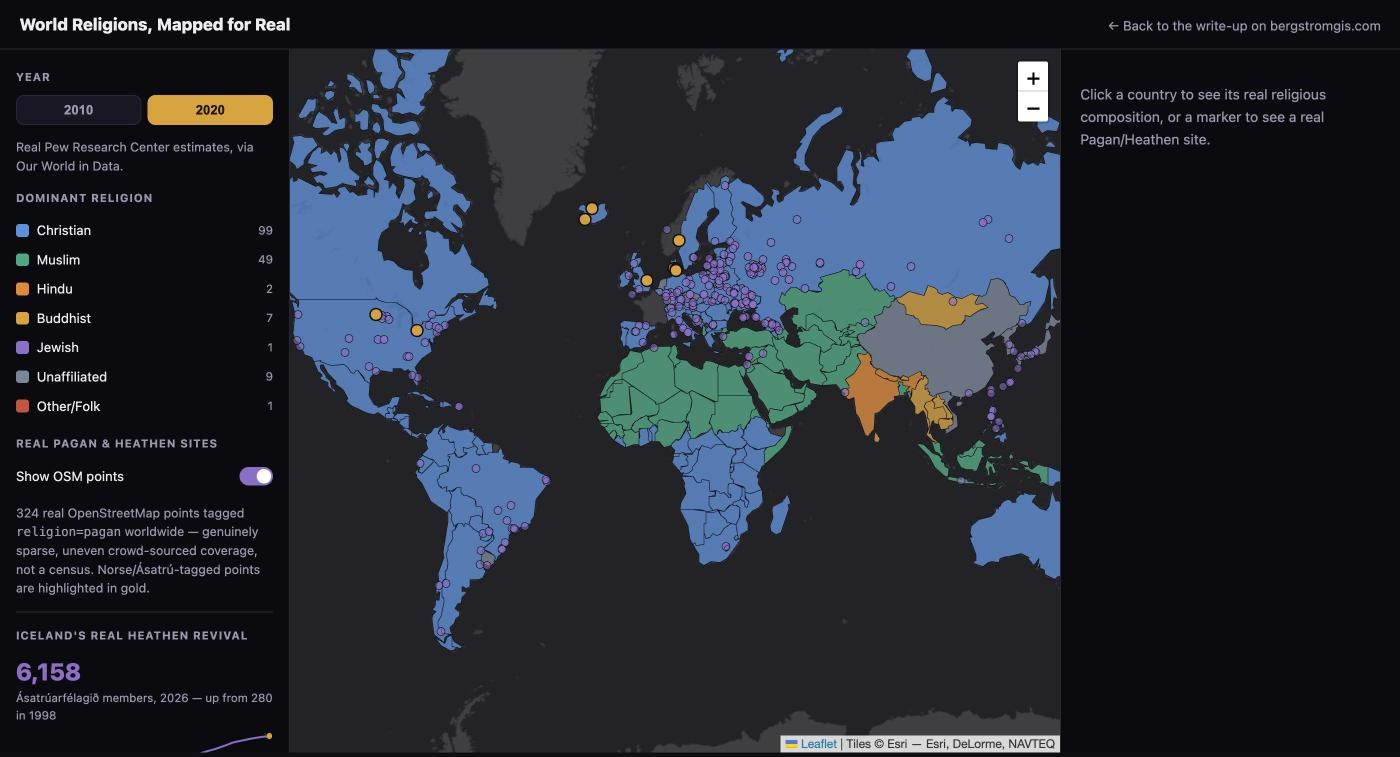
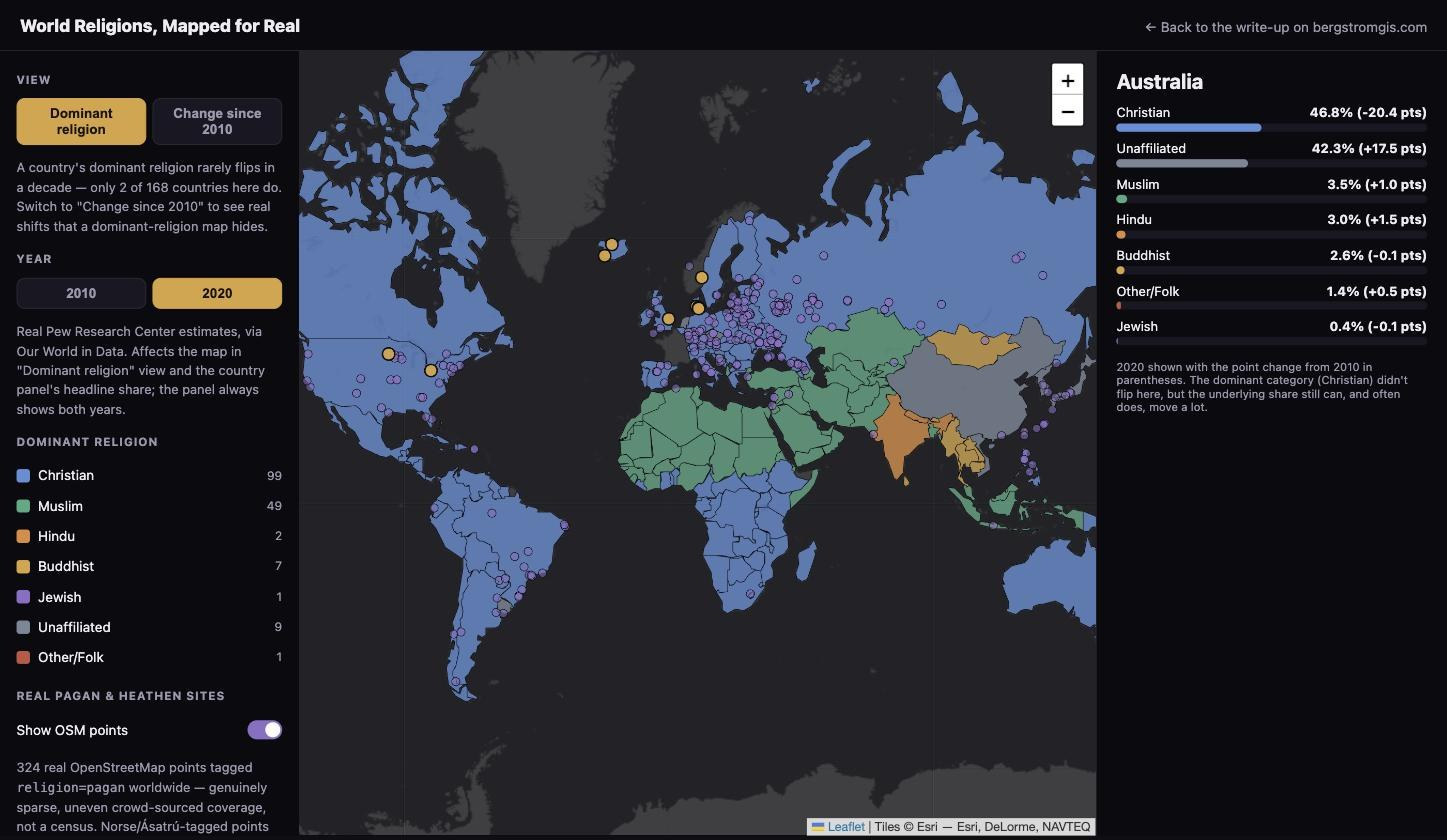
Fix year-toggle bug and add a real change view
The country detail panel was hardcoded to always show 2020 numbers,
so toggling to 2010 and clicking a country never reflected the
selected year. Fixed: the panel now always shows both years side by
side with the real point change. Also added a second map view,
'Change since 2010,' since only 2 of 168 countries actually flip
their dominant religion in a decade -- the categorical map was hiding
real shifts like Australia's Christian share dropping 20 points.

diff --git a/docs/religions/index.html b/docs/religions/index.html
@@ -118,15 +118,29 @@
 
 <div class="layout">
   <nav class="rail" aria-label="Legend and controls">
+    <h2>View</h2>
+    <div class="year-toggle" id="viewToggle">
+      <button data-view="dominant" class="active">Dominant religion</button>
+      <button data-view="change">Change since 2010</button>
+    </div>
+    <p class="hint" id="viewHint">A country's dominant religion rarely flips in a decade &mdash; only 2 of 168 countries here do. Switch to "Change since 2010" to see real shifts that a dominant-religion map hides.</p>
+
     <h2>Year</h2>
     <div class="year-toggle" id="yearToggle">
       <button data-year="2010">2010</button>
       <button data-year="2020" class="active">2020</button>
     </div>
-    <p class="hint">Real Pew Research Center estimates, via Our World in Data.</p>
+    <p class="hint">Real Pew Research Center estimates, via Our World in Data. Affects the map in "Dominant religion" view and the country panel's headline share; the panel always shows both years.</p>
 
-    <h2>Dominant religion</h2>
+    <h2 id="legendHeading">Dominant religion</h2>
     <div id="legendList"></div>
+    <div id="changeLegend" style="display:none">
+      <div class="hint">Point change in "Unaffiliated" share, 2010&rarr;2020. Chosen because it's the clearest, most comparable real signal across almost every country in this dataset.</div>
+      <div style="height:12px; border-radius:6px; margin:0.6rem 0 0.3rem; background:linear-gradient(90deg, #2b2539, #d9a441);"></div>
+      <div style="display:flex; justify-content:space-between; font-size:0.7rem; color:var(--muted);">
+        <span>No change</span><span id="maxChangeLabel">+&hellip; pts</span>
+      </div>
+    </div>
 
     <h2>Real Pagan &amp; Heathen sites</h2>
     <div class="toggle-row">
@@ -223,26 +237,38 @@
   function fmtPct(v) {
     return v == null ? "—" : v.toFixed(1) + "%";
   }
+  function fmtDelta(v) {
+    if (v == null) return "";
+    const sign = v > 0 ? "+" : "";
+    return ` (${sign}${v.toFixed(1)} pts)`;
+  }
+
+  let selectedCountry = null;
 
   function renderCountryDetail(p) {
+    selectedCountry = p;
     const el = document.getElementById("detail");
-    const rows2020 = Object.entries(RELIGIONS).map(([name, info]) => {
-      const v = p[`${info.field}_2020`];
-      return { name, color: info.color, v: v || 0 };
-    }).sort((a, b) => b.v - a.v);
+    const rows = Object.entries(RELIGIONS).map(([name, info]) => {
+      const v10 = p[`${info.field}_2010`];
+      const v20 = p[`${info.field}_2020`];
+      return { name, color: info.color, v10: v10 || 0, v20: v20 || 0 };
+    }).sort((a, b) => b.v20 - a.v20);
 
-    const bars = rows2020.map(r => `
+    const bars = rows.map(r => {
+      const delta = (r.v20 != null && r.v10 != null) ? r.v20 - r.v10 : null;
+      return `
       <div class="bar-row">
-        <div class="bar-label"><span>${r.name}</span><b>${fmtPct(r.v)}</b></div>
-        <div class="bar-track"><div class="bar-fill" style="width:${Math.min(r.v, 100)}%; background:${r.color}"></div></div>
+        <div class="bar-label"><span>${r.name}</span><b>${fmtPct(r.v20)}${fmtDelta(delta)}</b></div>
+        <div class="bar-track"><div class="bar-fill" style="width:${Math.min(r.v20, 100)}%; background:${r.color}"></div></div>
       </div>
-    `).join("");
+    `;
+    }).join("");
 
     const dom2010 = p.dominant_religion_2010;
     const dom2020 = p.dominant_religion_2020;
     const shift = dom2010 && dom2020 && dom2010 !== dom2020
       ? `<div class="year-diff">Dominant religion shifted from ${dom2010} (2010) to ${dom2020} (2020) in this dataset.</div>`
-      : `<div class="year-diff">Dominant religion (${dom2020 || "—"}) unchanged between 2010 and 2020 in this dataset.</div>`;
+      : `<div class="year-diff">2020 shown with the point change from 2010 in parentheses. The dominant category (${dom2020 || "—"}) didn't flip here, but the underlying share still can, and often does, move a lot.</div>`;
 
     el.innerHTML = `<h2>${p.name}</h2>${bars}${shift}`;
   }
@@ -261,7 +287,64 @@
     btn.addEventListener("click", () => {
       currentYear = btn.dataset.year;
       document.querySelectorAll("#yearToggle button").forEach(b => b.classList.toggle("active", b === btn));
+      applyView();
+    });
+  });
+
+  // --- secondary view: real point-change in Unaffiliated share, 2010-2020 ---
+  // Most countries don't flip their DOMINANT religion in a decade, so the
+  // categorical map above barely changes between years even where the real
+  // underlying share moved a lot (Australia's Christian share alone dropped
+  // 20 points). This sequential view surfaces that real shift directly.
+  let viewMode = "dominant";
+  const changeVals = countries.features
+    .map(f => f.properties.pct_unaffiliated_2020 - f.properties.pct_unaffiliated_2010)
+    .filter(v => !isNaN(v));
+  const maxChange = Math.max(...changeVals);
+
+  function changeColor(v) {
+    if (v == null || isNaN(v)) return "#3a3745";
+    const t = Math.max(0, Math.min(1, v / maxChange));
+    // single-hue sequential ramp, dark violet -> bright gold
+    const r = Math.round(43 + t * (217 - 43));
+    const g = Math.round(37 + t * (164 - 37));
+    const b = Math.round(63 + t * (65 - 63));
+    return `rgb(${r},${g},${b})`;
+  }
+
+  function styleForChange(feature) {
+    const p = feature.properties;
+    const v = (p.pct_unaffiliated_2020 != null && p.pct_unaffiliated_2010 != null)
+      ? p.pct_unaffiliated_2020 - p.pct_unaffiliated_2010 : null;
+    return {
+      color: "#0f0e14",
+      weight: 0.6,
+      fillColor: changeColor(v),
+      fillOpacity: 0.85
+    };
+  }
+
+  document.getElementById("maxChangeLabel").textContent = `+${maxChange.toFixed(1)} pts (Australia)`;
+
+  function applyView() {
+    if (viewMode === "dominant") {
       countryLayer.setStyle(styleForCountry);
+      document.getElementById("legendHeading").textContent = "Dominant religion";
+      document.getElementById("legendList").style.display = "";
+      document.getElementById("changeLegend").style.display = "none";
+    } else {
+      countryLayer.setStyle(styleForChange);
+      document.getElementById("legendHeading").textContent = "2010 → 2020 change";
+      document.getElementById("legendList").style.display = "none";
+      document.getElementById("changeLegend").style.display = "";
+    }
+  }
+
+  document.getElementById("viewToggle").querySelectorAll("button").forEach(btn => {
+    btn.addEventListener("click", () => {
+      viewMode = btn.dataset.view;
+      document.querySelectorAll("#viewToggle button").forEach(b => b.classList.toggle("active", b === btn));
+      applyView();
     });
   });
 

diff --git a/docs/work/world-religions-dashboard.html b/docs/work/world-religions-dashboard.html
@@ -152,6 +152,20 @@
       </p>
     </div>
 
+    <h2>A dominant-religion map hides more than it shows</h2>
+    <p>
+      Coloring countries by which religion holds a plurality is the obvious way to
+      map this, and it's also mostly useless for showing change over time: only 2 of
+      168 countries actually flip their dominant religion between 2010 and 2020 in
+      this dataset. But the real underlying shares moved a lot underneath that. Australia's
+      Christian share dropped from 67% to 47%, a real 20-point swing, while staying the
+      largest single category the whole time. Chile dropped 18 points, the U.S. 14. The
+      map has a second view, "Change since 2010," that colors every country by the real
+      point-change in its unaffiliated share instead, since that's the one trend visible
+      almost everywhere in the data, and it's the only way this kind of shift actually
+      shows up on a map.
+    </p>
+
     <h2>Where the real data runs out, and I say so</h2>
     <p>
       OpenStreetMap has 324 real points worldwide tagged <code>religion=pagan</code>,
